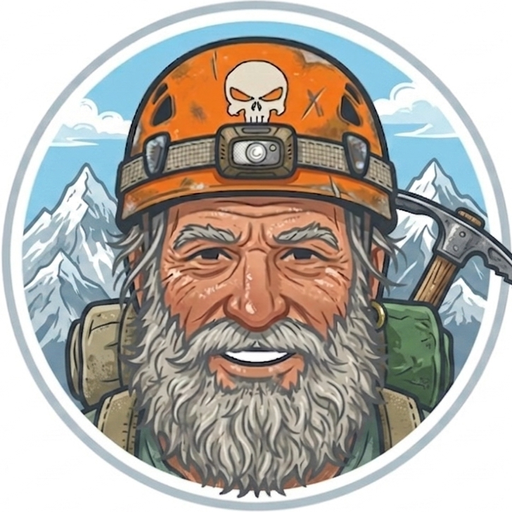
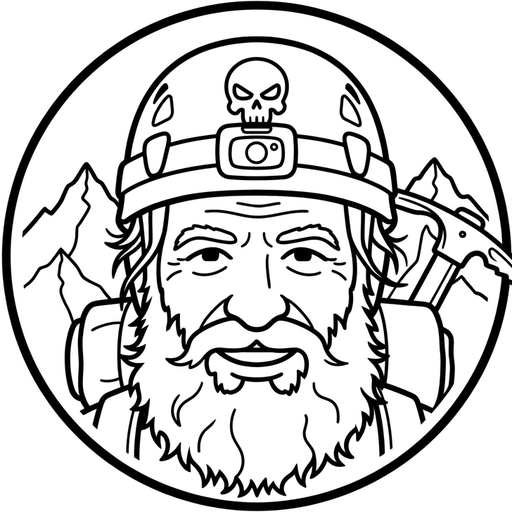
Add files via upload

diff --git a/index.html b/index.html
@@ -331,6 +331,48 @@ border:1.5px solid rgba(0,0,0,.13);border-radius:9px;background:#fff url("data:i
   .fe-actions{display:flex;gap:8px;margin-top:10px;align-items:center}
   .fe-note{font-size:10.5px;color:var(--muted);margin-top:7px;line-height:1.4}
   .frais-custom{font-size:10px;font-weight:700;background:rgba(184,114,14,.14);color:#8a5410;border:1px solid rgba(184,114,14,.3);padding:1px 7px;border-radius:9px;margin-left:6px}
+  /* factures */
+  #invView{display:none}
+  body.inv-on #invView{display:block}
+  body.inv-on #cards,body.inv-on #map,body.inv-on .map-note,body.inv-on #logView{display:none}
+  .inv-item{background:#fff;border-radius:11px;padding:12px 14px;box-shadow:0 1px 7px rgba(0,0,0,.06);margin-bottom:9px;display:flex;gap:12px;align-items:flex-start}
+  .inv-item .ii-main{flex:1;min-width:0}
+  .inv-item .ii-num{font-family:'JetBrains Mono';font-size:11px;color:var(--muted);letter-spacing:.04em}
+  .inv-item .ii-nom{font-weight:700;font-size:13.5px;margin-top:1px}
+  .inv-item .ii-meta{font-size:11.5px;color:var(--muted);margin-top:2px}
+  .inv-item .ii-tot{font-weight:800;color:var(--ice-deep);font-size:14px;white-space:nowrap;font-variant-numeric:tabular-nums}
+  .inv-status{display:inline-block;font-size:10px;font-weight:700;padding:2px 9px;border-radius:9px;margin-top:5px;cursor:pointer;border:1px solid}
+  .inv-status.paid{background:rgba(45,138,94,.14);color:#22694a;border-color:rgba(45,138,94,.35)}
+  .inv-status.unpaid{background:rgba(184,114,14,.13);color:#8a5410;border-color:rgba(184,114,14,.35)}
+  .inv-acts{display:flex;flex-direction:column;gap:6px;align-items:flex-end}
+  .inv-acts button{font-size:11px;font-family:'JetBrains Mono';background:none;border:1px solid rgba(0,0,0,.18);border-radius:7px;padding:5px 9px;cursor:pointer;color:var(--rock2);white-space:nowrap}
+  .invbtn{font-family:'Inter';font-weight:600;font-size:13px;background:none;color:#8a5410;border:1.5px solid rgba(184,114,14,.5);padding:8px 13px;border-radius:8px;cursor:pointer;margin-left:8px}
+  /* éditeur facture (modal plein écran) */
+  .inv-editor{position:fixed;inset:0;background:var(--bg);z-index:250;display:none;overflow-y:auto}
+  .inv-editor.on{display:block}
+  .ie-wrap{max-width:720px;margin:0 auto;padding:16px 16px 60px}
+  .ie-top{display:flex;justify-content:space-between;align-items:center;position:sticky;top:0;background:var(--bg);padding:10px 0;z-index:2;border-bottom:1px solid rgba(0,0,0,.08)}
+  .ie-top h2{font-size:16px;color:var(--ice-deep);margin:0}
+  .ie-sec{background:#fff;border-radius:12px;padding:14px;box-shadow:0 1px 8px rgba(0,0,0,.06);margin:12px 0}
+  .ie-sec h4{font-size:11px;letter-spacing:.07em;text-transform:uppercase;color:var(--ice-deep);font-family:'JetBrains Mono';margin:0 0 9px}
+  .ie-f{display:flex;flex-direction:column;gap:3px;margin-bottom:9px}
+  .ie-f label{font-size:11px;color:var(--muted)}
+  .ie-f input,.ie-f textarea{padding:8px 10px;border:1.5px solid rgba(0,0,0,.14);border-radius:8px;font-size:13.5px;font-family:inherit;background:rgba(0,0,0,.02)}
+  .ie-f input:focus,.ie-f textarea:focus{outline:none;border-color:var(--ice-deep);background:#fff}
+  .ie-row{display:flex;gap:9px}.ie-row>*{flex:1}
+  .ie-lines table{width:100%;border-collapse:collapse}
+  .ie-lines th{font-size:9.5px;letter-spacing:.05em;text-transform:uppercase;color:var(--muted);text-align:left;padding:4px 6px;font-family:'JetBrains Mono'}
+  .ie-lines td{padding:3px 4px}
+  .ie-lines input{width:100%;box-sizing:border-box;padding:7px 8px;border:1.5px solid rgba(0,0,0,.13);border-radius:7px;font-size:12.5px;font-family:inherit}
+  .ie-lines .il-q,.ie-lines .il-pu{text-align:right}
+  .ie-lines .il-del{background:none;border:none;color:#b5533f;font-size:15px;cursor:pointer;padding:0 3px}
+  .ie-addline{background:none;border:1px dashed rgba(0,0,0,.3);border-radius:7px;color:var(--ice-deep);font-size:12px;padding:6px 10px;cursor:pointer;font-family:inherit;margin-top:6px}
+  .ie-tot{text-align:right;font-size:15px;font-weight:800;color:var(--ice-deep);margin-top:10px}
+  .ie-actions{display:flex;gap:9px;margin-top:16px}
+  .ie-save{flex:1;background:var(--ice);color:#fff;border:none;border-radius:10px;padding:12px;font-size:14px;font-weight:600;cursor:pointer;font-family:inherit}
+  .ie-pdf{background:#8a5410;color:#fff;border:none;border-radius:10px;padding:12px 16px;font-size:14px;font-weight:600;cursor:pointer;font-family:inherit}
+  .ie-close{background:none;border:none;font-size:22px;color:var(--muted);cursor:pointer;padding:2px 8px}
+  .ie-toggle{display:flex;gap:8px;align-items:center;font-size:13px;color:var(--rock2)}
   .expbox{position:fixed;inset:0;background:rgba(0,0,0,.5);z-index:200;display:none;align-items:center;justify-content:center;padding:18px}
   .expbox.on{display:flex}
   .expbox .inner{background:#fff;border-radius:14px;padding:18px;max-width:560px;width:100%;max-height:80vh;overflow:auto;box-shadow:0 8px 40px rgba(0,0,0,.3)}
@@ -359,7 +401,7 @@ border:1.5px solid rgba(0,0,0,.13);border-radius:9px;background:#fff url("data:i
     <button class="cgc-link" id="cgcOpenTop">Conditions générales ↗</button>
     <div class="brand">
       <h1>Guide&nbsp;2.0</h1>
-      <span class="sub">UIAGM &nbsp;·&nbsp; <span id="vtag" style="opacity:.75;font-size:10.5px">version 2026-06-24 · v88</span></span>
+      <span class="sub">UIAGM &nbsp;·&nbsp; <span id="vtag" style="opacity:.75;font-size:10.5px">version 2026-06-24 · v89</span></span>
     </div>
   </div>
 </header>
@@ -491,6 +533,7 @@ border:1.5px solid rgba(0,0,0,.13);border-radius:9px;background:#fff url("data:i
         <button class="viewtoggle" id="viewToggle" aria-pressed="false" title="Basculer vue compacte">≡ Compact</button>
         <button class="viewtoggle" id="mapToggle" aria-pressed="false" title="Vue carte">🗺 Carte</button>
         <button class="viewtoggle" id="logToggle" aria-pressed="false" title="Journal des sorties">📒 Journal</button>
+        <button class="viewtoggle" id="invToggle" aria-pressed="false" title="Factures">🧾 Factures</button>
         <select class="sortsel" id="sortSel" aria-label="Trier">
           <option value="alt">Altitude ↓</option>
           <option value="cotA">Cotation ↑</option>
@@ -527,6 +570,44 @@ border:1.5px solid rgba(0,0,0,.13);border-radius:9px;background:#fff url("data:i
         </div>
         <div id="logList"></div>
       </div>
+      <div id="invView">
+        <div class="log-stats" id="invStats"></div>
+        <div class="log-tools">
+          <button id="invNew">+ Facture vierge</button>
+          <button id="invExport">⬇ Export JSON</button>
+          <label for="invImp" style="display:inline-block">⬆ Import JSON<input id="invImp" type="file" accept=".json" style="display:none"></label>
+        </div>
+        <div id="invList"></div>
+      </div>
+      <div class="inv-editor" id="invEditor"><div class="ie-wrap">
+        <div class="ie-top"><h2 id="ieTitle">Facture</h2><button class="ie-close" id="ieClose">✕</button></div>
+        <div class="ie-sec"><h4>Facture</h4>
+          <div class="ie-row"><div class="ie-f"><label>Numéro</label><input id="ie-num"></div>
+            <div class="ie-f"><label>Date</label><input id="ie-date" type="date"></div></div>
+          <div class="ie-toggle"><input type="checkbox" id="ie-paid"><label for="ie-paid">Payée</label></div>
+        </div>
+        <div class="ie-sec"><h4>Client</h4>
+          <div class="ie-f"><label>Nom du client</label><input id="ie-client" placeholder="Prénom Nom"></div>
+          <div class="ie-f"><label>Adresse / email (optionnel)</label><textarea id="ie-caddr" rows="2"></textarea></div>
+        </div>
+        <div class="ie-sec"><h4>Prestation</h4>
+          <div class="ie-f"><label>Intitulé</label><input id="ie-title"></div>
+          <div class="ie-f"><label>Détail (massif, formule, dates…)</label><textarea id="ie-detail" rows="2"></textarea></div>
+        </div>
+        <div class="ie-sec ie-lines"><h4>Lignes</h4>
+          <table><thead><tr><th>Description</th><th style="width:52px">Qté</th><th style="width:88px">P.U.</th><th style="width:88px">Total</th><th style="width:24px"></th></tr></thead>
+          <tbody id="ie-lines-body"></tbody></table>
+          <button class="ie-addline" id="ie-addline">+ Ligne</button>
+          <div class="ie-tot" id="ie-total"></div>
+        </div>
+        <div class="ie-sec"><h4>Notes / conditions</h4>
+          <div class="ie-f"><textarea id="ie-notes" rows="3"></textarea></div>
+        </div>
+        <div class="ie-actions">
+          <button class="ie-save" id="ie-save">Enregistrer</button>
+          <button class="ie-pdf" id="ie-pdf">📄 PDF</button>
+        </div>
+      </div></div>
       <div id="map"></div>
       <div class="expbox" id="expBox"><div class="inner">
         <h3>Exporter mes modifications de matériel</h3>
@@ -988,6 +1069,15 @@ function fraisFor(c, nOverride){
 function topoFor(c){ const v=activeVar(c); return (v&&v.ref&&TOPO[v.ref])? TOPO[v.ref] : c.topo; }
 function effortShow(c){ const v=activeVar(c); return (v&&v.ref&&EFFORT[v.ref])? EFFORT[v.ref] : c.effort; }
 function dShow(c){ const v=activeVar(c); return v? v.d : (c.dMin===c.dMax? c.dMin+' j' : c.dMin+'–'+c.dMax+' j'); }
+/* ===== Factures — données ===== */
+function getInvoices(){ try{return JSON.parse(localStorage.getItem('factures-v1')||'[]')}catch(e){return[]} }
+function setInvoices(a){ try{localStorage.setItem('factures-v1',JSON.stringify(a))}catch(e){} }
+function nextInvNum(){
+  const y=new Date().getFullYear();
+  const list=getInvoices().filter(f=>(f.num||'').indexOf('F'+y+'-')===0);
+  let max=0; list.forEach(f=>{ const n=parseInt((f.num||'').split('-')[1]||'0'); if(n>max)max=n; });
+  return 'F'+y+'-'+String(max+1).padStart(3,'0');
+}
 /* ===== Journal des sorties — données ===== */
 function getLog(){ try{return JSON.parse(localStorage.getItem('sorties-v1')||'[]')}catch(e){return[]} }
 function setLog(a){ try{localStorage.setItem('sorties-v1',JSON.stringify(a))}catch(e){} }
@@ -1550,6 +1640,155 @@ document.getElementById('cards').addEventListener('click',function(e){
   if(rs){ if(confirm('Réinitialiser au matériel d\'origine ? Vos modifications seront perdues.')){ clearMatEdit(rs.dataset.key); MAT_EDITING=null; render(); } return; }
 });
 
+
+/* ===== Factures — logique ===== */
+let IE_STATE=null; // facture en cours d'édition
+function invFromCourse(c){
+  const sF=(1+state.season/100)*(state.mode==='amis'?AMIS_DISC:(state.mode==='inter'?INTER_DISC:1));
+  const vEng=engFor(c), vMp=mpFor(c), av=activeVar(c);
+  const n=Math.min(state.size,vMp)||1;
+  const pp=ppAt(vEng,n)*sF;
+  const lines=[{desc:'Honoraires de guidage'+(av?' — '+av.l:''), qte:n, pu:Math.round(pp)}];
+  const frais=fraisFor(c,n);
+  if(frais>0) lines.push({desc:'Frais estimés (refuges, remontées — réglés sur place)', qte:n, pu:frais});
+  return {
+    id:Date.now(), num:nextInvNum(), date:new Date().toISOString().slice(0,10), paid:false,
+    client:'', caddr:'',
+    title:c.nom, detail:c.massif+' · '+c.cot+' · '+dShow(c)+(av?' · '+av.l:''),
+    lines, notes:'Assurances annulation et secours-rapatriement recommandées (non incluses). Merci de votre confiance.',
+    cur:state.cur
+  };
+}
+function invTotal(f){ return (f.lines||[]).reduce((s,l)=>s+(+l.qte||0)*(+l.pu||0),0); }
+function openInvEditor(f){
+  IE_STATE=JSON.parse(JSON.stringify(f));
+  $('#ieTitle').textContent=IE_STATE.num||'Facture';
+  $('#ie-num').value=IE_STATE.num||''; $('#ie-date').value=IE_STATE.date||'';
+  $('#ie-paid').checked=!!IE_STATE.paid;
+  $('#ie-client').value=IE_STATE.client||''; $('#ie-caddr').value=IE_STATE.caddr||'';
+  $('#ie-title').value=IE_STATE.title||''; $('#ie-detail').value=IE_STATE.detail||'';
+  $('#ie-notes').value=IE_STATE.notes||'';
+  renderInvLines();
+  $('#invEditor').classList.add('on');
+}
+function renderInvLines(){
+  const body=$('#ie-lines-body');
+  body.innerHTML=(IE_STATE.lines||[]).map((l,i)=>
+    '<tr><td><input class="il-desc" data-i="'+i+'" value="'+esc(l.desc||'').replace(/"/g,'&quot;')+'"></td>'
+    +'<td><input class="il-q" data-i="'+i+'" type="number" inputmode="numeric" value="'+(+l.qte||0)+'"></td>'
+    +'<td><input class="il-pu" data-i="'+i+'" type="number" inputmode="numeric" value="'+(+l.pu||0)+'"></td>'
+    +'<td class="il-tot">'+money((+l.qte||0)*(+l.pu||0))+'</td>'
+    +'<td><button class="il-del" data-i="'+i+'">✕</button></td></tr>').join('');
+  $('#ie-total').textContent='Total : '+money(invTotal(IE_STATE));
+}
+function ieCollect(){
+  IE_STATE.num=$('#ie-num').value.trim(); IE_STATE.date=$('#ie-date').value; IE_STATE.paid=$('#ie-paid').checked;
+  IE_STATE.client=$('#ie-client').value.trim(); IE_STATE.caddr=$('#ie-caddr').value.trim();
+  IE_STATE.title=$('#ie-title').value.trim(); IE_STATE.detail=$('#ie-detail').value.trim();
+  IE_STATE.notes=$('#ie-notes').value.trim();
+  const lines=[];
+  $('#ie-lines-body').querySelectorAll('tr').forEach(tr=>{
+    const d=tr.querySelector('.il-desc').value.trim();
+    const q=+tr.querySelector('.il-q').value||0;
+    const pu=+tr.querySelector('.il-pu').value||0;
+    if(d||q||pu) lines.push({desc:d,qte:q,pu:pu});
+  });
+  IE_STATE.lines=lines;
+}
+function saveInv(){
+  ieCollect();
+  const list=getInvoices();
+  const idx=list.findIndex(x=>x.id===IE_STATE.id);
+  if(idx>=0) list[idx]=IE_STATE; else list.push(IE_STATE);
+  setInvoices(list);
+}
+function renderInvoices(){
+  const list=getInvoices().slice().sort((a,b)=>(b.date||'').localeCompare(a.date||''));
+  const y=new Date().getFullYear();
+  let caY=0,unpaid=0;
+  list.forEach(f=>{ const t=invTotal(f); if((f.date||'').startsWith(String(y)))caY+=t; if(!f.paid)unpaid+=t; });
+  $('#invStats').innerHTML=
+    '<div class="log-stat"><div class="v">'+money(caY)+'</div><div class="l">facturé '+y+'</div></div>'
+   +'<div class="log-stat"><div class="v">'+list.length+'</div><div class="l">factures</div></div>'
+   +'<div class="log-stat"><div class="v">'+money(unpaid)+'</div><div class="l">en attente</div></div>';
+  $('#invList').innerHTML = list.length ? list.map(f=>
+    '<div class="inv-item"><div class="ii-main">'
+    +'<div class="ii-num">'+(f.num||'—')+'</div>'
+    +'<div class="ii-nom">'+(f.title||'—').replace(/</g,'&lt;')+(f.client?' · '+f.client.replace(/</g,'&lt;'):'')+'</div>'
+    +'<div class="ii-meta">'+fmtDate(f.date)+'</div>'
+    +'<span class="inv-status '+(f.paid?'paid':'unpaid')+'" data-id="'+f.id+'">'+(f.paid?'✓ Payée':'En attente')+'</span>'
+    +'</div><div class="inv-acts"><div class="ii-tot">'+money(invTotal(f))+'</div>'
+    +'<button class="inv-edit" data-id="'+f.id+'">Modifier</button>'
+    +'<button class="inv-pdf" data-id="'+f.id+'">PDF</button>'
+    +'<button class="inv-del" data-id="'+f.id+'">Suppr.</button></div></div>').join('')
+    : '<div class="log-empty">Aucune facture. Crée-en une depuis une fiche de course (« 🧾 Créer une facture ») ou avec « + Facture vierge ».</div>';
+}
+function openInvoices(){
+  document.body.classList.add('inv-on');
+  document.body.classList.remove('log-on','map-on');
+  $('#invToggle').setAttribute('aria-pressed','true');
+  $('#logToggle').setAttribute('aria-pressed','false'); $('#mapToggle').setAttribute('aria-pressed','false');
+  renderInvoices();
+  window.scrollTo({top:0,behavior:'smooth'});
+}
+function invoicePDF(f){
+  const esc2=x=>String(x).replace(/&/g,'&amp;').replace(/</g,'&lt;');
+  const cur=f.cur||'CHF';
+  const m=x=>{ const v=cur==='EUR'?Math.round(x/CHF_PER_EUR/5)*5+' €':'CHF '+fmt(x); return v; };
+  const dt=f.date?new Date(f.date).toLocaleDateString('fr-CH',{day:'numeric',month:'long',year:'numeric'}):'';
+  const rows=(f.lines||[]).map(l=>'<tr><td>'+esc2(l.desc)+'</td><td>'+(+l.qte||0)+'</td><td>'+m(+l.pu||0)+'</td><td>'+m((+l.qte||0)*(+l.pu||0))+'</td></tr>').join('');
+  const tot=invTotal(f);
+  const html='<!DOCTYPE html><html><head><meta charset="utf-8"><title>Facture '+esc2(f.num)+'</title><style>'
+  +'@page{size:A4;margin:16mm}body{font-family:-apple-system,Segoe UI,Roboto,Helvetica,Arial,sans-serif;color:#1c2830;font-size:12.5px;line-height:1.45;margin:0}'
+  +'.head{display:flex;justify-content:space-between;align-items:flex-start;border-bottom:2.5px solid #2c6e7c;padding-bottom:10px;margin-bottom:16px}'
+  +'.head h1{font-size:17px;margin:0;color:#19424c}.head .sub{font-size:11.5px;color:#555;margin-top:2px}.head .co{text-align:right;font-size:11px;color:#444;line-height:1.5}'
+  +'.dev{font-size:11px;color:#777;letter-spacing:.12em;text-transform:uppercase;margin:0 0 3px}h2{font-size:15.5px;margin:0 0 2px;color:#19424c}'
+  +'.two{display:flex;justify-content:space-between;gap:20px;margin:6px 0 16px}.two .b{font-size:11px}.two .t{font-size:10px;text-transform:uppercase;letter-spacing:.06em;color:#888;margin-bottom:2px}'
+  +'table{width:100%;border-collapse:collapse;margin:8px 0;font-size:12px}th{text-align:left;font-size:10px;text-transform:uppercase;letter-spacing:.06em;color:#666;border-bottom:1.5px solid #ccc;padding:6px 8px}'
+  +'td{padding:7px 8px;border-bottom:1px solid #eee}td:nth-child(2),td:nth-child(3),td:nth-child(4),th:nth-child(2),th:nth-child(3),th:nth-child(4){text-align:right}'
+  +'.tot{text-align:right;font-size:15px;font-weight:800;color:#19424c;margin:12px 0}.paid{display:inline-block;font-size:12px;font-weight:700;padding:3px 12px;border-radius:20px;margin-left:10px}'
+  +'.paid.y{background:#e3f1e9;color:#22694a}.paid.n{background:#fdf0dd;color:#8a5410}'
+  +'.notes{font-size:11px;color:#555;border-top:1px solid #ddd;padding-top:9px;margin-top:16px;white-space:pre-wrap}'
+  +'.foot{margin-top:14px;font-size:10.5px;color:#888}</style></head><body>'
+  +'<div class="head"><div><h1>🏔 '+esc2(GUIDE_INFO.nom)+'</h1><div class="sub">'+esc2(GUIDE_INFO.titre)+' · '+esc2(GUIDE_INFO.lieu)+'</div></div>'
+  +'<div class="co">'+esc2(GUIDE_INFO.tel)+'<br>'+esc2(GUIDE_INFO.email)+'</div></div>'
+  +'<p class="dev">Facture '+esc2(f.num||'')+' · '+dt+'</p>'
+  +'<div class="two"><div class="b"><div class="t">Facturé à</div>'+esc2(f.client||'—').replace(/\n/g,'<br>')+(f.caddr?'<br>'+esc2(f.caddr).replace(/\n/g,'<br>'):'')+'</div>'
+  +'<div class="b" style="text-align:right"><div class="t">Statut</div><span class="paid '+(f.paid?'y':'n')+'">'+(f.paid?'PAYÉE':'EN ATTENTE')+'</span></div></div>'
+  +'<h2>'+esc2(f.title||'')+'</h2>'+(f.detail?'<div style="font-size:11.5px;color:#555;margin-bottom:10px">'+esc2(f.detail)+'</div>':'')
+  +'<table><thead><tr><th>Description</th><th>Qté</th><th>P.U.</th><th>Total</th></tr></thead><tbody>'+rows+'</tbody></table>'
+  +'<div class="tot">Total : '+m(tot)+'</div>'
+  +(f.notes?'<div class="notes">'+esc2(f.notes)+'</div>':'')
+  +'<div class="foot">'+esc2(GUIDE_INFO.nom)+' · '+esc2(GUIDE_INFO.titre)+' · '+esc2(GUIDE_INFO.tel)+' · '+esc2(GUIDE_INFO.email)+'</div>'
+  +'</body></html>';
+  printDoc(html);
+}
+
+$('#invToggle').onclick=function(){
+  const on=!document.body.classList.contains('inv-on');
+  if(on) openInvoices();
+  else{ document.body.classList.remove('inv-on'); this.setAttribute('aria-pressed','false'); }
+};
+$('#invNew').onclick=()=>openInvEditor({id:Date.now(),num:nextInvNum(),date:new Date().toISOString().slice(0,10),paid:false,client:'',caddr:'',title:'',detail:'',lines:[{desc:'Honoraires de guidage',qte:1,pu:0}],notes:'',cur:state.cur});
+$('#ieClose').onclick=()=>$('#invEditor').classList.remove('on');
+$('#ie-save').onclick=()=>{ saveInv(); $('#invEditor').classList.remove('on'); renderInvoices(); };
+$('#ie-pdf').onclick=()=>{ saveInv(); invoicePDF(IE_STATE); renderInvoices(); };
+$('#ie-addline').onclick=()=>{ ieCollect(); IE_STATE.lines.push({desc:'',qte:1,pu:0}); renderInvLines(); };
+$('#ie-lines-body').addEventListener('click',e=>{ const b=e.target.closest('.il-del'); if(!b)return; ieCollect(); IE_STATE.lines.splice(+b.dataset.i,1); renderInvLines(); });
+$('#ie-lines-body').addEventListener('input',e=>{ if(e.target.matches('.il-q,.il-pu')){ ieCollect(); renderInvLines(); } });
+$('#invList').addEventListener('click',e=>{
+  const st=e.target.closest('.inv-status');
+  if(st){ const list=getInvoices(); const f=list.find(x=>String(x.id)===st.dataset.id); if(f){ f.paid=!f.paid; setInvoices(list); renderInvoices(); } return; }
+  const ed=e.target.closest('.inv-edit');
+  if(ed){ const f=getInvoices().find(x=>String(x.id)===ed.dataset.id); if(f) openInvEditor(f); return; }
+  const pd=e.target.closest('.inv-pdf');
+  if(pd){ const f=getInvoices().find(x=>String(x.id)===pd.dataset.id); if(f) invoicePDF(f); return; }
+  const dl=e.target.closest('.inv-del');
+  if(dl){ if(confirm('Supprimer cette facture ?')){ setInvoices(getInvoices().filter(x=>String(x.id)!==dl.dataset.id)); renderInvoices(); } return; }
+});
+$('#invExport').onclick=()=>{ const a=document.createElement('a'); a.href='data:application/json;charset=utf-8,'+encodeURIComponent(JSON.stringify(getInvoices(),null,1)); a.download='factures.json'; a.click(); };
+$('#invImp').addEventListener('change',function(){ const f=this.files[0]; if(!f)return; const r=new FileReader(); r.onload=()=>{ try{ const arr=JSON.parse(r.result); if(!Array.isArray(arr))throw 0; const cur=getInvoices(); const ids=new Set(cur.map(x=>String(x.id))); arr.forEach(x=>{ if(x&&!ids.has(String(x.id))) cur.push(x); }); setInvoices(cur); renderInvoices(); alert('Import : '+cur.length+' factures.'); }catch(e){ alert('JSON invalide.'); } }; r.readAsText(f); this.value=''; });
+
 const OPEN_CARDS = new Set();
 function renderAF(){
   const bar=$('#afbar'); const chips=[];
@@ -1678,6 +1917,7 @@ function render(){
           <button class="addlog-btn" data-nom="${esc(c.nom)}">+ Sortie</button>
           <button class="addlog-btn pdfbtn" data-nom="${esc(c.nom)}">📄 Devis PDF</button>
           <button class="addlog-btn matpdfbtn" data-nom="${esc(c.nom)}">🎒 Liste matériel PDF</button>
+          <button class="invbtn" data-nom="${esc(c.nom)}">🧾 Créer une facture</button>
           <span class="copied" hidden>Devis copié ✓</span>
         </div>
       </div>
@@ -1869,7 +2109,7 @@ function openLog(prefillNom){
 }
 $('#logToggle').onclick=function(){
   const on=!document.body.classList.contains('log-on');
-  if(on) openLog();
+  if(on){ document.body.classList.remove('inv-on'); $('#invToggle').setAttribute('aria-pressed','false'); openLog(); }
   else { document.body.classList.remove('log-on'); this.setAttribute('aria-pressed','false'); }
 };
 $('#lfAdd').onclick=function(){
@@ -1933,6 +2173,8 @@ document.getElementById('cards').addEventListener('click',function(e){
   if(pb){ const c=COURSES.find(x=>x.nom===pb.dataset.nom); if(c) devisPDF(c); return; }
   const mb=e.target.closest('.matpdfbtn');
   if(mb){ const c=COURSES.find(x=>x.nom===mb.dataset.nom); if(c) matPDF(c); return; }
+  const ib=e.target.closest('.invbtn');
+  if(ib){ const c=COURSES.find(x=>x.nom===ib.dataset.nom); if(c) openInvEditor(invFromCourse(c)); return; }
   const al=e.target.closest('.addlog-btn');
   if(al){ openLog(al.dataset.nom); return; }
   const vr=e.target.closest('.vt-row');

diff --git a/sw.js b/sw.js
@@ -1,5 +1,5 @@
 /* Courses & Tarifs — service worker (réseau d'abord pour les pages) */
-const CACHE = 'courses-tarifs-v82';
+const CACHE = 'courses-tarifs-v83';
 const CORE = ['./', './index.html', './manifest.webmanifest', './icon-192.png', './icon-512.png'];
 
 self.addEventListener('install', e => {